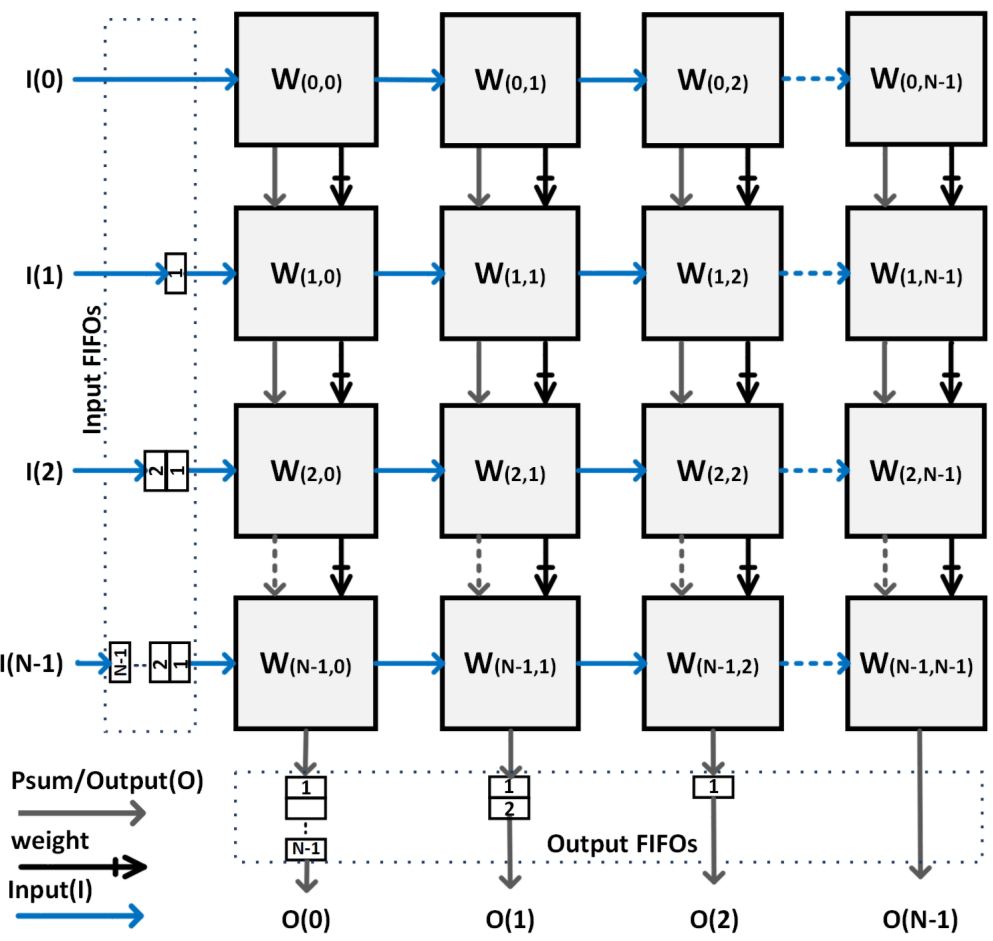
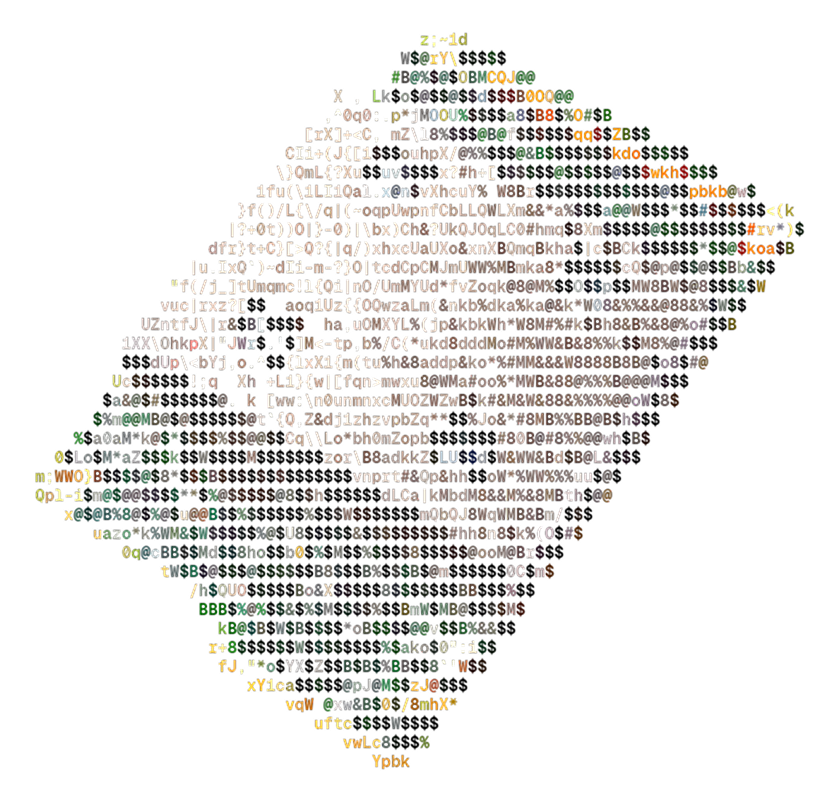
Project Section Complete

diff --git a/src/constants/projects.js b/src/constants/projects.js
@@ -1,8 +1,8 @@
 export const PROJECTS_DATA = [
-  { id: '01', title: 'Crowd Shield', desc: 'Real Time Stampede Detection', top: '22%', left: '26%', w: '160px', h: '160px', numPos: 'bottom-0 -left-[22px]', video: '/japan.mp4', bgTransparent: true, modalImage: '/neuracc.png', modalDesc: "A custom hardware and multi-modal AI project designed to predict crowd stampedes and crush risks in real time using non-intrusive floor-based sensor networks and computer vision. This project demonstrates advanced data fusion and embedded engineering, providing a privacy-first, self-sustaining approach to public safety and crowd management.\n\nKey Features:\n- Multi-Modal Data Fusion: Implemented a late-fusion (decision-level) architecture combining computer vision metrics (YOLO/CV2 crowd clustering) with physical sensor arrays (piezoelectric, LiDAR, PIR, and tremor data) to calculate real-time dynamic risk scores.\n- Kinetic Energy-Harvesting Tiles: Designed a \"floating paver\" mechanical prototype utilizing piezoelectric transducers to demonstrate dual-function capability: capturing walking frequency/force patterns for data tracking while simultaneously harvesting kinetic energy.\n- Adaptive Risk Validation Logic: Built a dynamic validation matrix to cross-reference visual and tactile inputs, effectively mitigating false alarms (ghosting) and maintaining full situational awareness during low-light conditions or camera blackouts.\n\nTechnical Stack:\n- Hardware & Embedded: C/C++, ESP32, Piezoelectric Transducers, LiDAR, PIR, and Tremor sensors.\n- AI/ML & Simulation: Python, Random Forest (tactile analysis), YOLO/CV2 (computer vision clustering), and Scikit-Learn.\n- Software & Cloud Infrastructure: Next.js (analytics dashboard), Firebase, Supabase, and Flask backend.\n\nSkills Demonstrated:\n- Full-stack IoT architecture from edge sensor nodes to cloud-based analytics.\n- Machine learning deployment for real-time anomaly detection and risk forecasting.\n- Multi-sensor data fusion and algorithm optimization for environment-adaptive systems.\n- Low-power electronics design and conceptual understanding of micro-displacement kinetic energy harvesting.\n- Agile hardware-software co-design, pairing physical edge devices with digital-twin simulations.\n\nImpact:\nThis project addresses critical limitations in modern surveillance by offering a GDPR-compliant, privacy-first alternative to pure camera-based monitoring. By leveraging a crowd’s own kinetic energy to power localized safety tracking, the system demonstrates a scalable, sustainable blueprint for high-density public infrastructure like metro stations, arenas, and event venues." },
-  { id: '02', title: 'Nexus', desc: 'Home Automation Bot', top: '26%', left: '46%', w: '120px', h: '180px', numPos: 'bottom-0 -left-[22px]', image: '/home automation.png', bgTransparent: true },
-  { id: '03', title: 'Argus', desc: 'PID-Controlled S-400 Air Defense System Simulation', top: '22%', left: '68%', w: '200px', h: '120px', numPos: 'bottom-0 -left-[22px]', image: '/milk-missile-missile.gif' },
-  { id: '04', title: 'Vitalyse', desc: 'Intelligent Remote Patient Care Assistant', top: '48%', left: '12%', w: '140px', h: '140px', numPos: 'bottom-0 -left-[22px]', image: '/bot.png', bgTransparent: true },
-  { id: '05', title: 'FirmwarePilot', desc: 'AI Agent for Automated Over-the-Air Updates', top: '55%', left: '32%', w: '120px', h: '185px', numPos: 'bottom-0 -left-[22px]', video: '/ota.mp4' },
-  { id: '06', title: 'Neuracc', desc: 'Neural Network MAC Accelerator', top: '50%', left: '52%', w: '234px', h: '150px', numPos: 'bottom-0 -left-[22px]', model: '/Ryzen 7 9850X3D2.glb', modelScale: 1.2, modelRotation: [0.36, -0.65, 0.], bgTransparent: true, wireframe: true, wireframeColor: '#000000', modalImage: '/neuracc.png', modalDesc: "A custom hardware design project for a 1-second interval counter displayed on 7-segment displays. This is a demonstration of digital logic design targeting fabrication on the Tiny Tapeout SKY130 shuttle, a collaborative chip manufacturing platform.\n\nKey Features:\n- Hardware Timer Logic: Implements a precise 1-second interval counter using Verilog, demonstrating fundamental digital design principles including clock management and state machines\n- 7-Segment Display Interface: Drivers for multi-digit 7-segment display output, showcasing hardware-software integration for user-facing displays\n- Chip Fabrication Target: Designed for SKY130 process node via Tiny Tapeout, indicating knowledge of real-world manufacturing constraints and design-for-manufacturability principles\n\nTechnical Stack:\n- Verilog: Core hardware description language for counter logic and display control\n- Python & Jupyter Notebooks: Simulation, testing, and documentation of hardware behavior\n- Docker & Make: Build automation and environment management for reproducible fabrication workflows\n\nSkills Demonstrated:\n- Digital logic design and hardware verification\n- RTL (Register Transfer Level) programming with Verilog\n- Test-driven hardware development using computational notebooks\n- Understanding of chip design flow from simulation to tape-out\n- Cross-disciplinary approach combining hardware design with software simulation tools\n\nImpact: This project demonstrates hands-on experience with modern chip design practices and the ability to navigate the complete hardware design cycle from concept to fabrication-ready RTL code." },
+  { id: '01', title: 'Crowd Shield', desc: 'Real Time Stampede Detection', top: '22%', left: '26%', w: '160px', h: '160px', numPos: 'bottom-0 -left-[22px]', video: '/japan.mp4', bgTransparent: true, modalImage: '/crowdshield.png', modalDesc: "A custom hardware and multi-modal AI project designed to predict crowd stampedes and crush risks in real time using non-intrusive floor-based sensor networks and computer vision. This project demonstrates advanced data fusion and embedded engineering, providing a privacy-first, self-sustaining approach to public safety and crowd management.\n\nKey Features:\n- Multi-Modal Data Fusion: Implemented a late-fusion (decision-level) architecture combining computer vision metrics (YOLO/CV2 crowd clustering) with physical sensor arrays (piezoelectric, LiDAR, PIR, and tremor data) to calculate real-time dynamic risk scores.\n- Kinetic Energy-Harvesting Tiles: Designed a \"floating paver\" mechanical prototype utilizing piezoelectric transducers to demonstrate dual-function capability: capturing walking frequency/force patterns for data tracking while simultaneously harvesting kinetic energy.\n- Adaptive Risk Validation Logic: Built a dynamic validation matrix to cross-reference visual and tactile inputs, effectively mitigating false alarms (ghosting) and maintaining full situational awareness during low-light conditions or camera blackouts.\n\nTechnical Stack:\n- Hardware & Embedded: C/C++, ESP32, Piezoelectric Transducers, LiDAR, PIR, and Tremor sensors.\n- AI/ML & Simulation: Python, Random Forest (tactile analysis), YOLO/CV2 (computer vision clustering), and Scikit-Learn.\n- Software & Cloud Infrastructure: Next.js (analytics dashboard), Firebase, Supabase, and Flask backend.\n\nSkills Demonstrated:\n- Full-stack IoT architecture from edge sensor nodes to cloud-based analytics.\n- Machine learning deployment for real-time anomaly detection and risk forecasting.\n- Multi-sensor data fusion and algorithm optimization for environment-adaptive systems.\n- Low-power electronics design and conceptual understanding of micro-displacement kinetic energy harvesting.\n- Agile hardware-software co-design, pairing physical edge devices with digital-twin simulations.\n\nImpact:\nThis project addresses critical limitations in modern surveillance by offering a GDPR-compliant, privacy-first alternative to pure camera-based monitoring. By leveraging a crowd’s own kinetic energy to power localized safety tracking, the system demonstrates a scalable, sustainable blueprint for high-density public infrastructure like metro stations, arenas, and event venues." },
+  { id: '02', title: 'Nexus', desc: 'Home Automation Bot', top: '26%', left: '46%', w: '120px', h: '180px', numPos: 'bottom-0 -left-[22px]', image: '/home automation.png', bgTransparent: true, modalImage: '/nexus.png', modalDesc: "Nexus is an ESP32-powered smart home monitoring bot that combines environmental monitoring, obstacle avoidance, and integrated vacuum cleaning in a single autonomous mobile platform. It operates in two modes: manual control via Blynk IoT application or fully autonomous navigation with real-time environmental monitoring.\n\nKey Features\n- Environmental Monitoring: Temperature, humidity, flame detection, and gas monitoring\n- Obstacle Detection: IR sensor-based navigation to avoid obstacles\n- Integrated Cleaning: Built-in vacuum cleaner for autonomous floor maintenance\n- Dual Control Modes: Remote manual operation via Blynk or fully autonomous operation\n- ESP32-Based Intelligence: Centralized microcontroller managing sensors and controls\n\nTechnical Stack\n- Primary Language: C++ (100%)\n- Microcontroller: ESP32 with WiFi connectivity\n- Environmental Sensors: DHT11, flame sensor, gas sensor\n- Navigation: Infrared obstacle detection\n- Control Interface: Blynk IoT platform and integrated webserver\n- Development: Arduino IDE with ESP32 board package\n- Key Libraries: Blynk and DHT sensor libraries\n\nImpact\nThe system effectively integrates multiple smart home functions into a single autonomous platform that simultaneously monitors environmental hazards and maintains cleanliness. The dual-mode operation provides flexibility—manual mode for targeted control and autonomous mode for continuous monitoring and maintenance without user intervention. This demonstrates practical resource-efficient embedded system design, handling sensor fusion, obstacle avoidance, and network communication on a single microcontroller while maintaining real-time responsiveness." },
+  { id: '03', title: 'Argus', desc: 'PID-Controlled S-400 Air Defense System Simulation', top: '22%', left: '68%', w: '200px', h: '120px', numPos: 'bottom-0 -left-[22px]', image: '/milk-missile-missile.gif', modalImage: '/s400.png', modalDesc: "A comprehensive simulation of an advanced air defense system built in Unity that models the S-400 missile defense platform. The simulation implements homing missiles guided by PID (Proportional-Integral-Derivative) control systems and an intelligent threat assessment framework. Targets move dynamically through the airspace, and the defense system continuously evaluates threats, selects the highest priority target, and launches missiles with autonomous guidance capabilities. This project demonstrates practical control theory applied to real-time 3D simulation.\n\nKey Features\n- PID-Controlled Homing Missiles: Proportional-Integral-Derivative controllers manage pitch and yaw to guide missiles toward moving targets\n- Radar Detection System: Simulates radar with configurable scan radius, range-based detection, and tag-based target classification\n- Threat Assessment Engine: Evaluates multiple targets based on distance, velocity, and Radar Cross Section (RCS) values\n- Multi-Missile Management: Launches multiple missiles with cooldown periods and tracks engaged targets\n- Dynamic Target Spawning: Generates moving aircraft with randomized paths and evasion behaviors\n- Intelligent Engagement: Selects highest-threat targets and prioritizes engagement with distance-based missile type selection\n- Collision Detection: Destroys both missile and target on impact\n\nTechnical Stack\n- Primary Language: C# (43.8%) and ShaderLab (53.1%)\n- Graphics Backend: HLSL shaders (0.3%)\n- Simulation Engine: Unity game engine\n- Control System: Custom PID controller implementation for missile guidance\n- Physics: Rigidbody-based physics simulation with torque and force application\n- Computational Analysis: Mathematica (2.8%) for control system analysis\n\nImpact\nThis project demonstrates the application of control theory in a real-time, physics-based air defense simulation. By using PID-controlled homing missiles, it models realistic guidance behavior, including trajectory correction, stability, and target tracking. The threat assessment framework enables intelligent target prioritization based on multiple factors such as distance, velocity, and radar cross-section, reflecting real-world defense decision-making. Integrating radar detection, autonomous guidance, threat evaluation, and collision handling creates a complete simulation pipeline for studying air defense operations and system optimization." },
+  { id: '04', title: 'Vitalyse', desc: 'Intelligent Remote Patient Care Assistant', top: '48%', left: '12%', w: '140px', h: '140px', numPos: 'bottom-0 -left-[22px]', image: '/bot.png', bgTransparent: true, modalImage: '/vital.png', modalDesc: "Vitalyse is a comprehensive full-stack health monitoring solution that enables real-time remote patient supervision through IoT devices and cloud-based analytics. The system collects vital signs and environmental data from wearable sensors via an embedded microcontroller, securely transmits the data to cloud infrastructure, processes it through AI analytics, and displays comprehensive health insights through an interactive web dashboard. This integrated approach transforms raw sensor data into actionable health intelligence.\n\nKey Features\n- Multi-Sensor Data Acquisition: Heart rate and blood oxygen (MAX30100), body temperature, ECG readings, and environmental conditions via DHT11\n- Real-Time Data Visualization: Live charts and dynamic updates for vital signs including heart rate, SpO2, and body temperature\n- Secure Cloud Connectivity: MQTT-based communication with AWS IoT Core using TLS/SSL encryption and certificate authentication\n- AI Health Assistant: Integrated chatbot powered by Google Gemini API providing personalized health insights and recommendations\n- Facial Emotion Analysis: Detects and displays emotional state and stress levels through computer vision integration\n- Responsive Dashboard: Clean, modern web interface optimized for both desktop and mobile devices\n- Scalable Architecture: Full-stack design supporting multiple concurrent patients and devices\n\nTechnical Stack\n- Embedded: C++ (100%) on ESP8266 microcontroller with Arduino libraries\n- Frontend: React with TypeScript (96.9%), Vite, Tailwind CSS, React Router, Recharts for visualization\n- Backend: Node.js with Express.js (100% JavaScript)\n- Database & Cloud: Supabase PostgreSQL for data storage and AWS IoT Core for sensor communication\n- AI/ML: Google Gemini API for health assistant, VitalEyes ML model for facial emotion recognition\n- Deployment: Vercel (frontend), Render (backend)\n\nImpact\nThe project demonstrates practical integration of embedded systems, cloud infrastructure, and artificial intelligence to solve a critical healthcare challenge. By combining low-power IoT sensors with secure cloud architecture, it enables continuous patient monitoring at scale without requiring hospital infrastructure. The AI-powered health assistant layer transforms raw biometric data into meaningful health guidance, improving patient engagement and early intervention capabilities. The system validates the feasibility of remote patient supervision for chronic disease management, elderly care, and post-operative monitoring, with applications ranging from home healthcare to preventive wellness tracking." },
+  { id: '05', title: 'FirmwarePilot', desc: 'AI Agent for Automated Over-the-Air Updates', top: '55%', left: '32%', w: '120px', h: '185px', numPos: 'bottom-0 -left-[22px]', video: '/ota.mp4', modalImage: '/otain.png', modalDesc: "An AI-powered system that autonomously generates, modifies, and deploys firmware updates for IoT devices based on real-time events. The system enables IoT devices to rewrite their own firmware in response to changing conditions without human intervention. When an IoT device experiences an event such as a temperature spike, low battery, sensor failure, or security threat, it sends a message to this agent. The AI analyzes the situation, generates optimized firmware code, and deploys it autonomously—no policies required, no manual coding, just autonomous intelligence.\n\nThe system demonstrates how large language models can make intelligent decisions at the device management layer, generating compilable embedded code that adapts to specific environmental conditions and operational requirements.\n\nKey Features\n- Fully Autonomous: AI makes intelligent decisions without explicit policies\n- Real Firmware Generation: Creates actual compilable Arduino C++ code\n- OTA Deployment: Simulates Over-The-Air firmware updates\n- 100+ Training Scenarios: Comprehensive test suite across 10 categories\n- Version Control: Tracks all firmware changes with timestamps\n- Multi-Domain Intelligence: Handles temperature, power, sensors, network, security, and more\n- Fast Response: Generates and deploys firmware in seconds\n\nTechnical Stack\n- AI/LLM Framework: LangChain, OpenAI GPT-4 / GPT-4o-mini\n- API Framework: FastAPI\n- Embedded Firmware: Arduino C++\n- Data Storage: JSON-based device database\n- Deployment Model: Over-The-Air (OTA) simulation\n\nThe architecture follows a straightforward flow: IoT devices send event notifications to a FastAPI server, which activates a LangChain-based AI agent. The agent analyzes the event, retrieves device context from the database, generates optimized firmware code using GPT-4, and orchestrates the deployment process through firmware tools.\n\nImpact\nThe project addresses a critical gap in IoT management by enabling autonomous firmware adaptation without human intervention. Traditional IoT systems require manual firmware updates and predefined policies for various scenarios. This system leverages large language models to understand contextual IoT events and generate context-aware firmware solutions in real time." },
+  { id: '06', title: 'Neuracc', desc: 'Neural Network MAC Accelerator', top: '50%', left: '52%', w: '234px', h: '150px', numPos: 'bottom-0 -left-[22px]', model: '/Ryzen 7 9850X3D2.glb', modelScale: 1.2, modelRotation: [0.36, -0.65, 0.], bgTransparent: true, wireframe: true, wireframeColor: '#000000', modalImage: '/neuracc.png', modalDesc: "Overview\nNeurAcc is a custom neural network inference accelerator designed around a 4-element weight-stationary Multiply-Accumulate (MAC) systolic array. Developed in Verilog and successfully fabricated through Tiny Tapeout’s SKY130 shuttle program, the project demonstrates the complete RTL-to-silicon design flow. The accelerator performs quantized neural network computations efficiently while minimizing hardware resource utilization through a compact serial interface and optimized fixed-point arithmetic.\n\nKey Features\n- 4-Element Systolic Array: Implements a weight-stationary architecture with four chained MAC units for parallel neural network computations.\n- Quantized Computation Engine: Uses 4-bit weights and 10-bit accumulators to balance computational accuracy, area, and power efficiency.\n- Serial Communication Interface: Supports efficient weight loading and result extraction while reducing I/O pin requirements.\n- Finite State Machine Control: Features a streamlined 3-state control architecture for weight loading, computation, and data readout.\n- Modular Hardware Design: Organized RTL hierarchy enables scalability, maintainability, and straightforward verification.\n\nTechnical Stack\n- Hardware Description Language: Verilog RTL\n- Verification Framework: cocotb (Python-based testbench development)\n- Fabrication Process: SKY130 via Tiny Tapeout\n- Architecture: Weight-stationary MAC systolic array\n- Control Logic: Finite State Machine (FSM)\n- Verification & Analysis: Waveform debugging and simulation-driven validation\n- Automation: CI/CD pipelines for synthesis, simulation, documentation, and FPGA validation\n\nImpact\nThis project demonstrates practical expertise in digital hardware design, neural network acceleration, and silicon development. By progressing from RTL design and verification to successful fabrication on a real silicon process, it showcases a complete understanding of modern ASIC development workflows. The accelerator highlights how systolic-array architectures and quantized arithmetic can be leveraged to efficiently execute neural network operations in resource-constrained hardware environments." },
 ];

diff --git a/src/sections/ProjectModal.jsx b/src/sections/ProjectModal.jsx
@@ -8,6 +8,40 @@ import { motion, AnimatePresence } from 'framer-motion';
  * @param {function}    onClose   Callback to close the modal.
  */
 export default function ProjectModal({ project, onClose }) {
+  const parseDescription = (text) => {
+    if (!text) return [];
+    
+    const regex = /^(Overview|Key Features|Technical Stack|Skills Demonstrated|Impact):?/gm;
+    const sections = [];
+    const matchArr = [...text.matchAll(regex)];
+    
+    if (matchArr.length === 0) {
+      return [{ title: 'DESCRIPTION', content: text.trim() }];
+    }
+    
+    if (matchArr[0].index > 0) {
+      sections.push({
+        title: 'DESCRIPTION',
+        content: text.substring(0, matchArr[0].index).trim()
+      });
+    }
+    
+    for (let i = 0; i < matchArr.length; i++) {
+      let header = matchArr[i][1].toUpperCase();
+      if (header === 'OVERVIEW') header = 'DESCRIPTION';
+      
+      const start = matchArr[i].index + matchArr[i][0].length;
+      const end = i + 1 < matchArr.length ? matchArr[i+1].index : text.length;
+      
+      sections.push({
+        title: header,
+        content: text.substring(start, end).trim()
+      });
+    }
+    
+    return sections;
+  };
+
   return (
     <AnimatePresence>
       {project && (
@@ -25,20 +59,20 @@ export default function ProjectModal({ project, onClose }) {
             animate={{ scale: 1, opacity: 1, y: 0 }}
             exit={{ scale: 0.7, opacity: 0, y: 80 }}
             transition={{ type: 'spring', damping: 20, stiffness: 220, mass: 1 }}
-            className="w-[85vw] h-[75vh] max-w-5xl rounded-lg bg-[#111111]/80 backdrop-blur-md border border-white/20 flex flex-col overflow-hidden shadow-[0_0_50px_rgba(0,0,0,0.5)]"
+            className="w-[95vw] max-w-none max-h-[95vh] rounded-lg bg-[#111111]/80 backdrop-blur-md border border-white/20 flex flex-col shadow-[0_0_50px_rgba(0,0,0,0.5)]"
             onClick={(e) => e.stopPropagation()}
           >
             {/* Content Area */}
-            <div className="p-6 flex-1 overflow-y-auto font-mono text-sm leading-normal selection:bg-white/20">
+            <div className="p-6 flex-1 overflow-y-auto font-['Monospaceland',_monospace] font-bold not-italic text-sm leading-normal selection:bg-white/20">
               <div className="flex text-white/90">
                 <span><span className="text-white/50">~/Monozukuri&gt;</span> cat {project.title.toLowerCase().replace(/\s+/g, '-')}.txt</span>
               </div>
 
-              <div className="mt-6 flex flex-col md:flex-row gap-8">
+              <div className="mt-6 flex flex-col md:flex-row gap-4">
                 {/* Image Placeholder */}
-                <div className="w-full md:w-80 shrink-0 border border-dashed border-white/20 bg-white/5 rounded-md p-4 flex items-center justify-center overflow-hidden">
+                <div className="w-full md:w-[50%] shrink-0 flex items-center justify-center">
                   {project.modalImage ? (
-                    <img src={project.modalImage} alt={project.title} className="w-full h-full object-contain" />
+                    <img src={project.modalImage} alt={project.title} className="w-full h-auto object-contain" />
                   ) : (
                     <pre className="text-white/30 text-[10px] leading-tight font-mono text-center">
 {`    ___    
@@ -52,19 +86,24 @@ export default function ProjectModal({ project, onClose }) {
                 </div>
 
                 {/* Project Details */}
-                <div className="space-y-2 flex-1">
-                  <div>
-                    <span className="text-white/50">PROJECT:</span> <span className="text-white/90">{project.title}</span>
-                  </div>
-                  <div>
-                    <span className="text-white/50">ROLE:</span> <span className="text-white/90">{project.desc}</span>
-                  </div>
-                  <div className="pt-0">
-                    <span className="text-white/50">DESCRIPTION:</span>
-                    <div className="mt-0 text-white/70 leading-normal whitespace-pre-wrap">
-                      {project.modalDesc || "Lorem ipsum dolor sit amet, consectetur adipiscing elit, sed do eiusmod tempor incididunt ut labore et dolore magna aliqua. Ut enim ad minim veniam, quis nostrud exercitation ullamco laboris nisi ut aliquip ex ea commodo consequat. Duis aute irure dolor in reprehenderit in voluptate velit esse cillum dolore eu fugiat nulla pariatur. Excepteur sint occaecat cupidatat non proident, sunt in culpa qui officia deserunt mollit anim id est laborum."}
+                <div className="flex-1 flex flex-col justify-start space-y-2">
+                  <div className="flex flex-col space-y-2 shrink-0">
+                    <div>
+                      <span className="text-white/50">PROJECT:</span> <span className="text-white/90">{project.title}</span>
+                    </div>
+                    <div>
+                      <span className="text-white/50">ROLE:</span> <span className="text-white/90">{project.desc}</span>
                     </div>
                   </div>
+
+                  {parseDescription(project.modalDesc || "Lorem ipsum dolor sit amet, consectetur adipiscing elit.").map((section, idx) => (
+                    <div key={idx} className="shrink-0">
+                      <span className="text-white/50 block">{section.title}:</span>
+                      <div className="text-white/70 leading-normal whitespace-pre-wrap">
+                        {section.content}
+                      </div>
+                    </div>
+                  ))}
                 </div>
               </div>
             </div>
